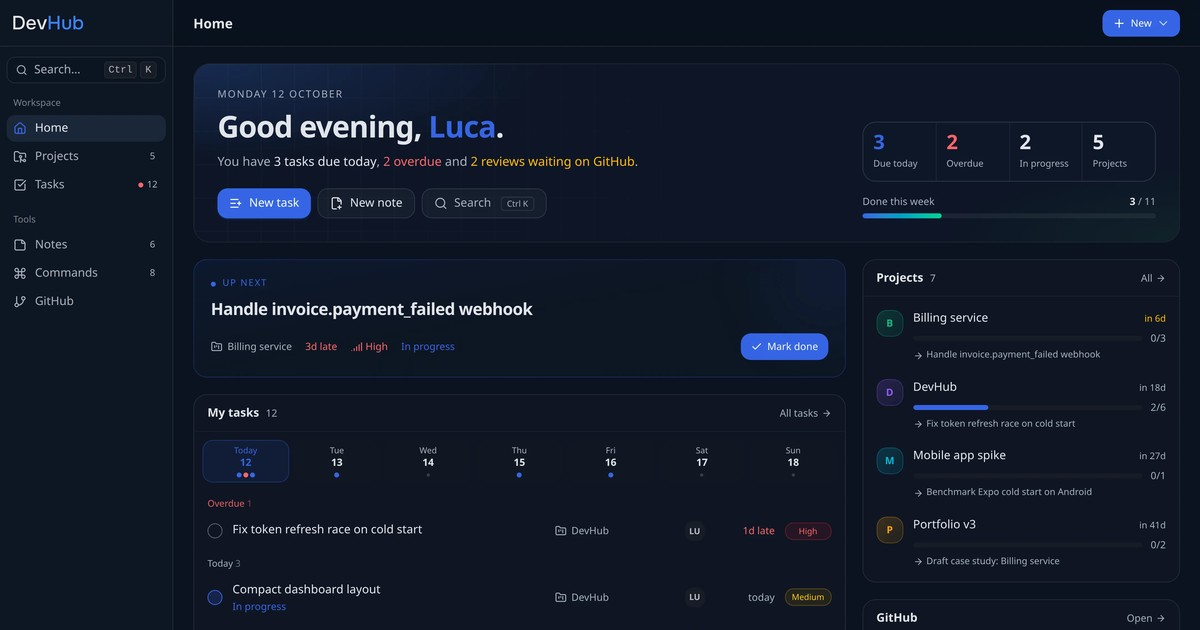
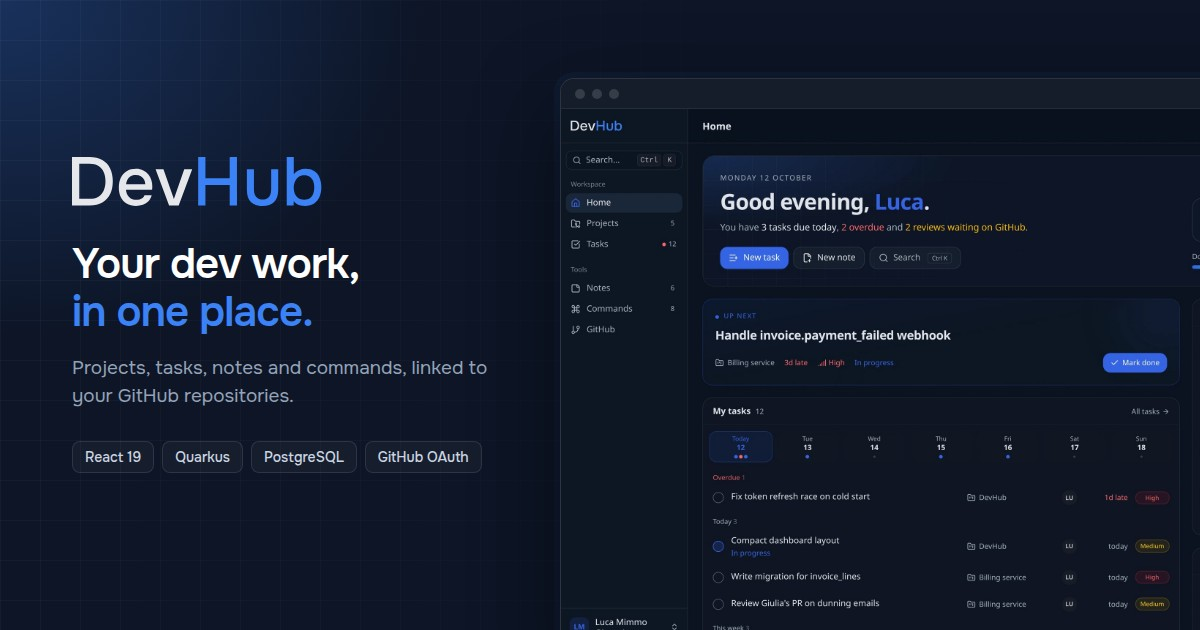
feat(seo): use the branded DevHub cover as link preview
- Replace og-image.jpg with the ambient-style cover: logo, tagline and the home dashboard in a window frame
- Update og:image:alt to describe the new image

diff --git a/index.html b/index.html
@@ -15,7 +15,7 @@
     <meta property="og:image" content="https://devhub-fe.vercel.app/og-image.jpg" />
     <meta property="og:image:width" content="1200" />
     <meta property="og:image:height" content="630" />
-    <meta property="og:image:alt" content="DevHub home dashboard with tasks, projects and GitHub activity" />
+    <meta property="og:image:alt" content="DevHub logo and tagline next to the home dashboard" />
 
     <meta name="twitter:card" content="summary_large_image" />
     <meta name="twitter:title" content="DevHub" />
